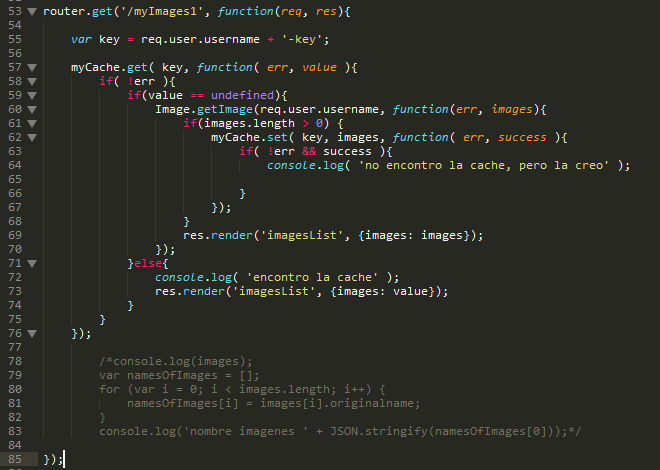
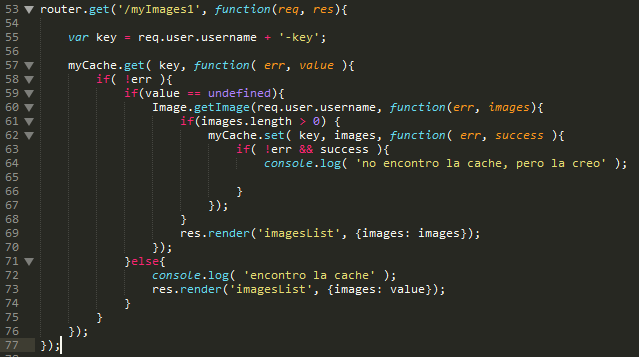
qa_rendimiento actualizado

diff --git a/routes/images.js b/routes/images.js
@@ -73,15 +73,7 @@ router.get('/myImages1', function(req, res){
   				res.render('imagesList', {images: value});
 			}				
 		}
-	});
-
-		/*console.log(images);
-		var namesOfImages = [];
-		for (var i = 0; i < images.length; i++) {
-			namesOfImages[i] = images[i].originalname;
-		}
-		console.log('nombre imagenes ' + JSON.stringify(namesOfImages[0]));*/		
-	
+	});	
 });
 
 router.get('/deleteImage', function(req, res){
@@ -92,8 +84,7 @@ router.post('/deleteImage', function(req, res){
 	var imagesArray = [];
 	Image.getImageByUserAndName(req.user.username, req.body.originalname, function(err, image){
 		if(err) throw err;
-		console.log('<><><><><><>');
-		//console.log(image.length);
+		
 		if(image){
 			Image.removeImage(req.body.originalname, function(){
 				var key = req.user.username + '-key';
@@ -122,9 +113,7 @@ router.post('/deleteImage', function(req, res){
 			req.flash('error_msg', 'Imagen no encontrada');
 			res.redirect('/deleteImage');
 		}
-	});
-
-	
+	});	
 });
 
 module.exports = router;
